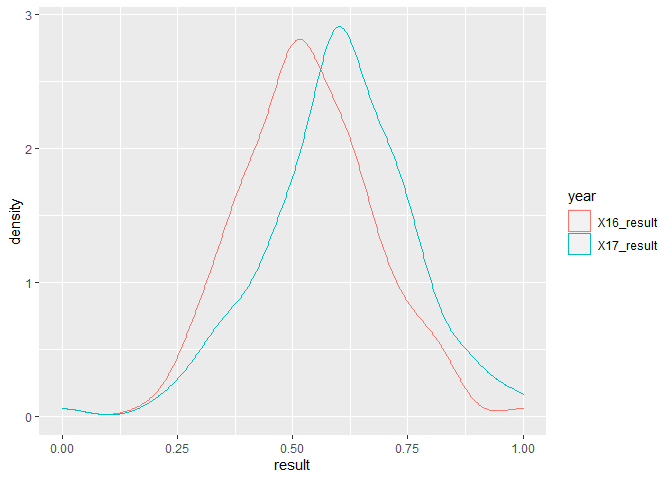
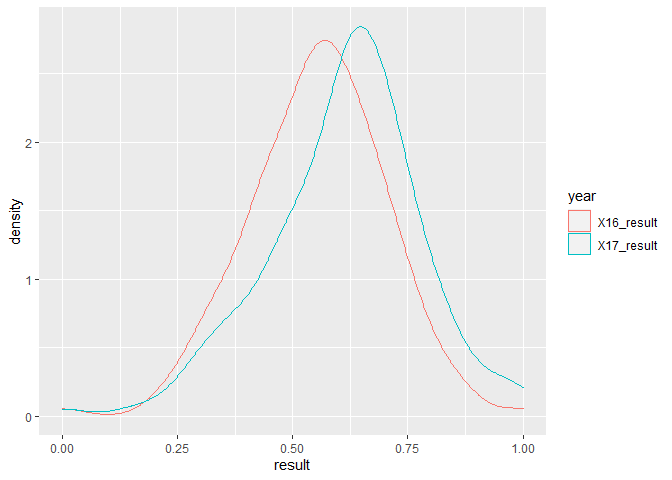
finial_result분리

diff --git a/final_result_1.md b/final_result_1.md
@@ -22,16 +22,16 @@ library(rgdal)
 library(htmltools)
 ```
 
-# 최종 min-max 포함 ———————————————————
+# 최종 min-max 미포함 ———————————————————-
 
 # RISK = f(Hazard, Exposure, Vulnerability, Capacity)
 
 ``` r
 # 원본 데이터 읽기
 hazard <- read.csv('output/hazard_result.csv')
-exposure <- read.csv('output/exposure_result.csv')
-vulnerability <- read.csv('output/vulnerability_result.csv')
-capacity <- read.csv('output/capacity_result.csv')
+exposure <- read.csv('output/exposure_result1.csv')
+vulnerability <- read.csv('output/vulnerability_result1.csv')
+capacity <- read.csv('output/capacity_result1.csv')
 
 
 #데이터 결합
@@ -44,13 +44,13 @@ head(DB, 3)
     ## 2  Gangwon Goseong-gun 강원도 고성군 42820  0.5264574  0.5463284  0.6153013
     ## 3   Gangwon Donghae-si 강원도 동해시 42170  0.6123409  0.6041215  0.5936511
     ##   X16_exposure X17_exposure X16_vulnerability X17_vulnerability X16_capacity
-    ## 1    0.3038772    0.3239064         0.5435461         0.4354101    0.7983780
-    ## 2    0.1938716    0.1884191         0.6601949         0.6438191    0.7478007
-    ## 3    0.3807366    0.3786649         0.3719887         0.3689875    0.7751020
+    ## 1    0.3831819    0.3984708         0.4554924         0.4406811    0.8239609
+    ## 2    0.2857085    0.2779259         0.5397817         0.6225125    0.7889338
+    ## 3    0.4512852    0.4471901         0.3315268         0.3827292    0.8078412
     ##   X17_capacity X18_capacity
-    ## 1    0.8558765    0.8870795
-    ## 2    0.8281501    0.9009704
-    ## 3    0.8444816    0.8442552
+    ## 1    0.8623345    0.8698801
+    ## 2    0.8425940    0.8798479
+    ## 3    0.8542216    0.8391500
 
 ``` r
 summary(DB)
@@ -65,28 +65,28 @@ summary(DB)
     ##  Chungbuk Eumseong-gun:  1   강원도 양구군:  1   Max.   :50000  
     ##  (Other)              :155   (Other)      :155                  
     ##    X16_hazard       X17_hazard       X18_hazard      X16_exposure   
-    ##  Min.   :0.0000   Min.   :0.0000   Min.   :0.0000   Min.   :0.0000  
-    ##  1st Qu.:0.3315   1st Qu.:0.3045   1st Qu.:0.3383   1st Qu.:0.2980  
-    ##  Median :0.4577   Median :0.4459   Median :0.4473   Median :0.3624  
-    ##  Mean   :0.4726   Mean   :0.4633   Mean   :0.4756   Mean   :0.3908  
-    ##  3rd Qu.:0.6327   3rd Qu.:0.6444   3rd Qu.:0.6497   3rd Qu.:0.4641  
+    ##  Min.   :0.0000   Min.   :0.0000   Min.   :0.0000   Min.   :0.1139  
+    ##  1st Qu.:0.3315   1st Qu.:0.3045   1st Qu.:0.3383   1st Qu.:0.3780  
+    ##  Median :0.4577   Median :0.4459   Median :0.4473   Median :0.4350  
+    ##  Mean   :0.4726   Mean   :0.4633   Mean   :0.4756   Mean   :0.4602  
+    ##  3rd Qu.:0.6327   3rd Qu.:0.6444   3rd Qu.:0.6497   3rd Qu.:0.5251  
     ##  Max.   :1.0000   Max.   :1.0000   Max.   :1.0000   Max.   :1.0000  
     ##                                                                     
     ##   X17_exposure    X16_vulnerability X17_vulnerability  X16_capacity   
-    ##  Min.   :0.0000   Min.   :0.0000    Min.   :0.0000    Min.   :0.0000  
-    ##  1st Qu.:0.2917   1st Qu.:0.4964    1st Qu.:0.4605    1st Qu.:0.6876  
-    ##  Median :0.3545   Median :0.6438    Median :0.6247    Median :0.7672  
-    ##  Mean   :0.3871   Mean   :0.6282    Mean   :0.6114    Mean   :0.7428  
-    ##  3rd Qu.:0.4652   3rd Qu.:0.8002    3rd Qu.:0.7778    3rd Qu.:0.8245  
-    ##  Max.   :1.0000   Max.   :1.0000    Max.   :1.0000    Max.   :1.0000  
+    ##  Min.   :0.1103   Min.   :0.06273   Min.   :0.0608    Min.   :0.2710  
+    ##  1st Qu.:0.3699   1st Qu.:0.42145   1st Qu.:0.4626    1st Qu.:0.7473  
+    ##  Median :0.4257   Median :0.52796   Median :0.6058    Median :0.8024  
+    ##  Mean   :0.4547   Mean   :0.51666   Mean   :0.5942    Mean   :0.7855  
+    ##  3rd Qu.:0.5242   3rd Qu.:0.64094   3rd Qu.:0.7394    3rd Qu.:0.8420  
+    ##  Max.   :1.0000   Max.   :0.78532   Max.   :0.9333    Max.   :0.9636  
     ##                                                                       
     ##   X17_capacity     X18_capacity   
-    ##  Min.   :0.0000   Min.   :0.0000  
-    ##  1st Qu.:0.6749   1st Qu.:0.6745  
-    ##  Median :0.7776   Median :0.7814  
-    ##  Mean   :0.7386   Mean   :0.7474  
-    ##  3rd Qu.:0.8445   3rd Qu.:0.8514  
-    ##  Max.   :1.0000   Max.   :1.0000  
+    ##  Min.   :0.2530   Min.   :0.2333  
+    ##  1st Qu.:0.7335   1st Qu.:0.7173  
+    ##  Median :0.8066   Median :0.7941  
+    ##  Mean   :0.7788   Mean   :0.7696  
+    ##  3rd Qu.:0.8542   3rd Qu.:0.8443  
+    ##  Max.   :0.9649   Max.   :0.9509  
     ## 
 
 # RISK 계산
@@ -110,31 +110,47 @@ summary(result_index)
     ##  Chungbuk Eumseong-gun:  1   강원도 양구군:  1   Max.   :50000  
     ##  (Other)              :155   (Other)      :155                  
     ##  X16_result_index X17_result_index
-    ##  Min.   :0.3359   Min.   :0.3304  
-    ##  1st Qu.:0.5177   1st Qu.:0.5147  
-    ##  Median :0.5607   Median :0.5585  
-    ##  Mean   :0.5586   Mean   :0.5501  
-    ##  3rd Qu.:0.5972   3rd Qu.:0.5872  
-    ##  Max.   :0.7378   Max.   :0.6896  
+    ##  Min.   :0.3647   Min.   :0.3680  
+    ##  1st Qu.:0.5234   1st Qu.:0.5421  
+    ##  Median :0.5572   Median :0.5733  
+    ##  Mean   :0.5587   Mean   :0.5728  
+    ##  3rd Qu.:0.5927   3rd Qu.:0.6076  
+    ##  Max.   :0.7314   Max.   :0.7096  
     ## 
 
 ``` r
-# 홍수피해위험지수 표준화 함수 설정
-standard <- function(x){
-  return((x-min(x))/(max(x)-min(x)))
-}
-
-# 연도별 데이터 프레임에 표준화 적용
-result <- as.data.frame(lapply(result_index[,4:5],standard))
+# 연도별 데이터 프레임에 표준화 적용 안함.
+result <- result_index[,4:5]
 colnames(result) <- c("X16_result", "X17_result")
 result <- cbind(DB[,1:3], result)
 head(result, 3)
 ```
 
     ##                   Name         NameK   SGG X16_result X17_result
-    ## 1 Gangwon Gangneung-si 강원도 강릉시 42150  0.8100104  0.9003977
-    ## 2  Gangwon Goseong-gun 강원도 고성군 42820  0.4881184  0.6160862
-    ## 3   Gangwon Donghae-si 강원도 동해시 42170  0.4954857  0.6088050
+    ## 1 Gangwon Gangneung-si 강원도 강릉시 42150  0.6656588  0.6753716
+    ## 2  Gangwon Goseong-gun 강원도 고성군 42820  0.5352204  0.5723402
+    ## 3   Gangwon Donghae-si 강원도 동해시 42170  0.5507485  0.5720656
+
+``` r
+summary(result)
+```
+
+    ##                     Name               NameK          SGG       
+    ##  Busan                :  1   강원도 강릉시:  1   Min.   :11000  
+    ##  Chungbuk Boeun-gun   :  1   강원도 고성군:  1   1st Qu.:42130  
+    ##  Chungbuk Cheongju-si :  1   강원도 동해시:  1   Median :44800  
+    ##  Chungbuk Chungju-si  :  1   강원도 삼척시:  1   Mean   :44074  
+    ##  Chungbuk Danyang-gun :  1   강원도 속초시:  1   3rd Qu.:47130  
+    ##  Chungbuk Eumseong-gun:  1   강원도 양구군:  1   Max.   :50000  
+    ##  (Other)              :155   (Other)      :155                  
+    ##    X16_result       X17_result    
+    ##  Min.   :0.3647   Min.   :0.3680  
+    ##  1st Qu.:0.5234   1st Qu.:0.5421  
+    ##  Median :0.5572   Median :0.5733  
+    ##  Mean   :0.5587   Mean   :0.5728  
+    ##  3rd Qu.:0.5927   3rd Qu.:0.6076  
+    ##  Max.   :0.7314   Max.   :0.7096  
+    ## 
 
 연도별 확률밀도함수
 
@@ -145,9 +161,9 @@ head(result_p, 3)
 ```
 
     ##           NameK   SGG X16_result X17_result
-    ## 1 강원도 강릉시 42150  0.8100104  0.9003977
-    ## 2 강원도 고성군 42820  0.4881184  0.6160862
-    ## 3 강원도 동해시 42170  0.4954857  0.6088050
+    ## 1 강원도 강릉시 42150  0.6656588  0.6753716
+    ## 2 강원도 고성군 42820  0.5352204  0.5723402
+    ## 3 강원도 동해시 42170  0.5507485  0.5720656
 
 ``` r
 result_p_p <- result_p %>%                           # pivoting
@@ -159,7 +175,7 @@ result_p_p %>%
   geom_density(aes(x=result, y=..density.., color=year))
 ```
 
-![](final_result_files/figure-gfm/unnamed-chunk-4-1.png)<!-- -->
+![](final_result_1_files/figure-gfm/unnamed-chunk-4-1.png)<!-- -->
 
 ``` r
 result_p %>% 
@@ -167,7 +183,7 @@ result_p %>%
   geom_histogram(bins=100)
 ```
 
-![](final_result_files/figure-gfm/unnamed-chunk-4-2.png)<!-- -->
+![](final_result_1_files/figure-gfm/unnamed-chunk-4-2.png)<!-- -->
 
 ``` r
 result_p_p %>% 
@@ -179,33 +195,33 @@ result_p_p %>%
   coord_flip()
 ```
 
-![](final_result_files/figure-gfm/unnamed-chunk-5-1.png)<!-- -->
+![](final_result_1_files/figure-gfm/unnamed-chunk-5-1.png)<!-- -->
 
 ``` r
 result_p_p %>% 
   group_by(NameK) %>% 
   mutate(mean=mean(result))%>%   
-  filter(mean < 0.35) %>%            #35% 이하
+  filter(mean < 0.50) %>%            #35% 이하
   ggplot(aes(x=fct_reorder(NameK, mean),
              y=result))+
   geom_boxplot()+
   coord_flip()
 ```
 
-![](final_result_files/figure-gfm/unnamed-chunk-6-1.png)<!-- -->
+![](final_result_1_files/figure-gfm/unnamed-chunk-6-1.png)<!-- -->
 
 ``` r
 result_p_p %>% 
   group_by(NameK) %>% 
   mutate(mean=mean(result))%>%   
-  filter(mean > 0.75) %>%            #75% 이상
+  filter(mean > 0.65) %>%            #75% 이상
   ggplot(aes(x=fct_reorder(NameK, mean),
              y=result))+
   geom_boxplot()+
   coord_flip()
 ```
 
-![](final_result_files/figure-gfm/unnamed-chunk-7-1.png)<!-- -->
+![](final_result_1_files/figure-gfm/unnamed-chunk-7-1.png)<!-- -->
 
 ``` r
 result_p %>% 
@@ -213,8 +229,8 @@ result_p %>%
   filter(NameK == "서울특별시")
 ```
 
-    ##        NameK   SGG X16_result X17_result        dif
-    ## 1 서울특별시 11000  0.7166389  0.7321177 0.01547886
+    ##        NameK   SGG X16_result X17_result          dif
+    ## 1 서울특별시 11000  0.6643211  0.6544628 -0.009858286
 
 ``` r
 result_p_dif <- result_p%>%
@@ -225,16 +241,16 @@ knitr::kable(result_p_dif[1:10, ])  # 침수구역내 총인구가 늘어난 시
 
 | NameK    |   SGG | X16\_result | X17\_result |       dif |
 | :------- | ----: | ----------: | ----------: | --------: |
-| 강원도 양양군  | 42830 |   0.6178257 |   0.7966093 | 0.1787836 |
-| 경상남도 함안군 | 48730 |   0.4164833 |   0.5869667 | 0.1704833 |
-| 강원도 평창군  | 42760 |   0.7611326 |   0.9193971 | 0.1582644 |
-| 강원도 춘천시  | 42110 |   0.5502588 |   0.7025579 | 0.1522991 |
-| 경상북도 영양군 | 47760 |   0.5093570 |   0.6605020 | 0.1511450 |
-| 경상북도 군위군 | 47720 |   0.4829632 |   0.6289233 | 0.1459600 |
-| 강원도 영월군  | 42750 |   0.4185902 |   0.5598876 | 0.1412974 |
-| 경상북도 의성군 | 47730 |   0.4869166 |   0.6280056 | 0.1410890 |
-| 강원도 고성군  | 42820 |   0.4881184 |   0.6160862 | 0.1279678 |
-| 강원도 횡성군  | 42730 |   0.3402637 |   0.4658988 | 0.1256351 |
+| 경상북도 의성군 | 47730 |   0.5051737 |   0.5659529 | 0.0607792 |
+| 경상북도 군위군 | 47720 |   0.5068604 |   0.5629650 | 0.0561046 |
+| 경상북도 영양군 | 47760 |   0.5241817 |   0.5741851 | 0.0500034 |
+| 강원도 양양군  | 42830 |   0.5887911 |   0.6337451 | 0.0449539 |
+| 경상남도 함안군 | 48730 |   0.5180657 |   0.5609636 | 0.0428978 |
+| 전라북도 김제시 | 45210 |   0.5571666 |   0.5966482 | 0.0394817 |
+| 전라북도 무주군 | 45730 |   0.5355678 |   0.5747079 | 0.0391401 |
+| 강원도 영월군  | 42750 |   0.5140177 |   0.5512494 | 0.0372317 |
+| 강원도 고성군  | 42820 |   0.5352204 |   0.5723402 | 0.0371198 |
+| 경상북도 청송군 | 47750 |   0.4742046 |   0.5112493 | 0.0370447 |
 
 ``` r
 knitr::kable(result_p_dif[152:161, ])  # 침수구역내 총인구가 줄어든 시군
@@ -242,16 +258,16 @@ knitr::kable(result_p_dif[152:161, ])  # 침수구역내 총인구가 줄어든 
 
 |     | NameK    |   SGG | X16\_result | X17\_result |         dif |
 | --- | :------- | ----: | ----------: | ----------: | ----------: |
-| 152 | 경기도 안산시  | 41270 |   0.4316604 |   0.4016536 | \-0.0300069 |
-| 153 | 충청남도 청양군 | 44790 |   0.7362989 |   0.7017132 | \-0.0345857 |
-| 154 | 경기도 연천군  | 41800 |   0.6509595 |   0.6125975 | \-0.0383620 |
-| 155 | 경기도 부천시  | 41190 |   0.4278185 |   0.3781803 | \-0.0496382 |
-| 156 | 충청남도 부여군 | 44760 |   0.7773486 |   0.7275116 | \-0.0498370 |
-| 157 | 인천광역시    | 28000 |   0.5263018 |   0.4756885 | \-0.0506133 |
-| 158 | 경기도 시흥시  | 41390 |   0.2061888 |   0.1555098 | \-0.0506790 |
-| 159 | 충청북도 청주시 | 43110 |   0.3649189 |   0.3043571 | \-0.0605618 |
-| 160 | 경기도 고양시  | 41280 |   0.7098045 |   0.6421808 | \-0.0676237 |
-| 161 | 충청북도 증평군 | 43745 |   0.3408069 |   0.2562014 | \-0.0846056 |
+| 152 | 충청남도 청양군 | 44790 |   0.6083092 |   0.5883044 | \-0.0200048 |
+| 153 | 경기도 안산시  | 41270 |   0.5360644 |   0.5158596 | \-0.0202047 |
+| 154 | 경기도 광명시  | 41210 |   0.7314263 |   0.7096085 | \-0.0218178 |
+| 155 | 경기도 구리시  | 41310 |   0.6625731 |   0.6389009 | \-0.0236722 |
+| 156 | 충청북도 증평군 | 43745 |   0.4773235 |   0.4517235 | \-0.0256000 |
+| 157 | 인천광역시    | 28000 |   0.5826775 |   0.5552402 | \-0.0274373 |
+| 158 | 경기도 부천시  | 41190 |   0.5446228 |   0.5165721 | \-0.0280507 |
+| 159 | 충청남도 부여군 | 44760 |   0.6264178 |   0.5982938 | \-0.0281239 |
+| 160 | 경기도 시흥시  | 41390 |   0.4693302 |   0.4386111 | \-0.0307191 |
+| 161 | 경기도 고양시  | 41280 |   0.6448897 |   0.6076294 | \-0.0372603 |
 
 ``` r
 result_p_p %>% 
@@ -262,7 +278,7 @@ result_p_p %>%
   theme(legend.position = "none")
 ```
 
-![](final_result_files/figure-gfm/unnamed-chunk-8-1.png)<!-- -->
+![](final_result_1_files/figure-gfm/unnamed-chunk-8-1.png)<!-- -->
 
 # RISK \~ f(Hazard, Exposure, VUlnerability, Capacity) 분석
 
@@ -280,10 +296,10 @@ hazard_path %>%
   filter(str_detect(NameK, "^강원") ) %>% 
   ggplot(aes(risk, hazard,col=NameK))+
   geom_path(arrow=arrow(angle=10,
-                      ends="last",
-                      type="closed",
-                      length = unit(0.15, "inches")),
-          show.legend = F)+
+                        ends="last",
+                        type="closed",
+                        length = unit(0.15, "inches")),
+            show.legend = F)+
   geom_point(size=2, alpha=0.4, show.legend = F)+
   geom_vline(xintercept = 0.5, alpha=0.3)+
   geom_hline(yintercept = 0.5, alpha=0.3)+
@@ -296,7 +312,7 @@ hazard_path %>%
   scale_y_continuous(limits = c(0,1))
 ```
 
-![](final_result_files/figure-gfm/unnamed-chunk-9-1.png)<!-- -->
+![](final_result_1_files/figure-gfm/unnamed-chunk-9-1.png)<!-- -->
 
 ## RISK \~ Exposure
 
@@ -326,7 +342,7 @@ exposure_path %>%
   scale_y_continuous(limits = c(0,1))
 ```
 
-![](final_result_files/figure-gfm/unnamed-chunk-10-1.png)<!-- -->
+![](final_result_1_files/figure-gfm/unnamed-chunk-10-1.png)<!-- -->
 
 ## RISK \~ Vulnerability
 
@@ -356,7 +372,7 @@ vulnerability_path %>%
   scale_y_continuous(limits = c(0,1))
 ```
 
-![](final_result_files/figure-gfm/unnamed-chunk-11-1.png)<!-- -->
+![](final_result_1_files/figure-gfm/unnamed-chunk-11-1.png)<!-- -->
 
 ## RISK \~ Capacity
 
@@ -386,7 +402,7 @@ capacity_path %>%
   scale_y_continuous(limits = c(0,1))
 ```
 
-![](final_result_files/figure-gfm/unnamed-chunk-12-1.png)<!-- -->
+![](final_result_1_files/figure-gfm/unnamed-chunk-12-1.png)<!-- -->
 
 # Mapping
 
@@ -457,7 +473,7 @@ tm_shape(analysis_simp)+
                position = c("left", "bottom"))
 ```
 
-![](final_result_files/figure-gfm/unnamed-chunk-13-1.png)<!-- -->
+![](final_result_1_files/figure-gfm/unnamed-chunk-13-1.png)<!-- -->
 
 ``` r
 ######################
@@ -517,16 +533,14 @@ leaflet(a) %>%
                    options=layersControlOptions(collapsed=FALSE))
 ```
 
-![](final_result_files/figure-gfm/unnamed-chunk-14-1.png)<!-- -->
-
-``` r
-#############################
-```
+![](final_result_1_files/figure-gfm/unnamed-chunk-14-1.png)<!-- -->
 
 # 결과값 저장
 
 ``` r
-write.csv(result, 'output/final_result.csv')
+write.csv(result, 'output/final_result1.csv')
+
+
 
 
 # 열 명칭별 의미
